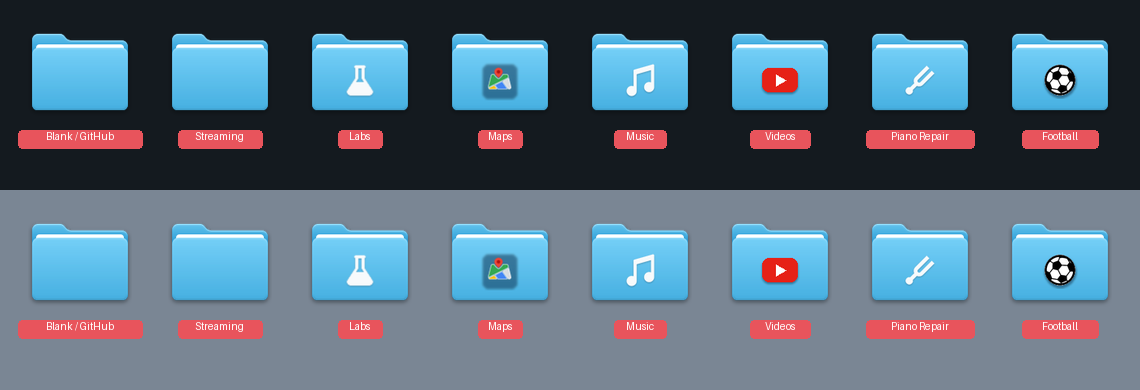
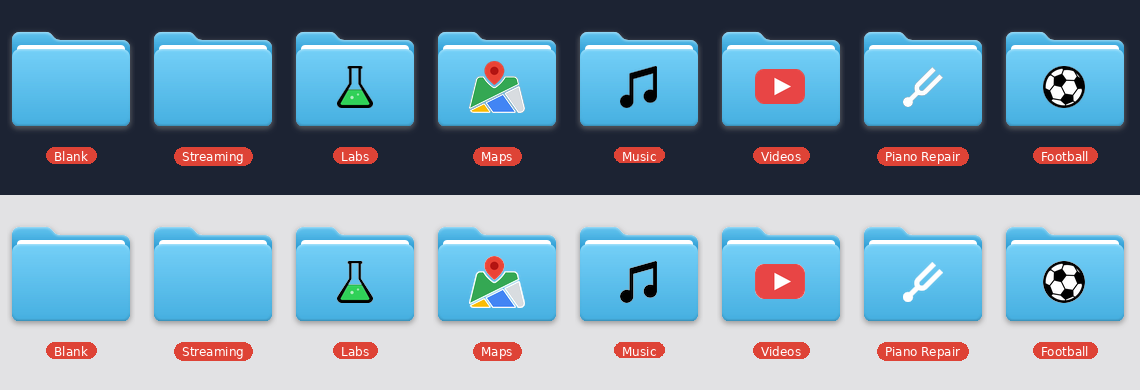
folders changed

diff --git a/css/desktop.css b/css/desktop.css
@@ -716,6 +716,8 @@ html[data-theme="dark"] .item .art.album > img{filter:none}
 .item > img{width:var(--icon-size);height:var(--icon-size)}
 .item img.thumb{width:100%;height:auto;aspect-ratio:16/9;object-fit:cover;border:2px solid var(--ink);
   image-rendering:auto}
+.item .art > img[src*="folder"],.item > img[src*="folder"],.item .art.smooth > img{
+  image-rendering:auto;-ms-interpolation-mode:bicubic}
 .video-thumb-frame{
   position:relative;
   width:100%;
